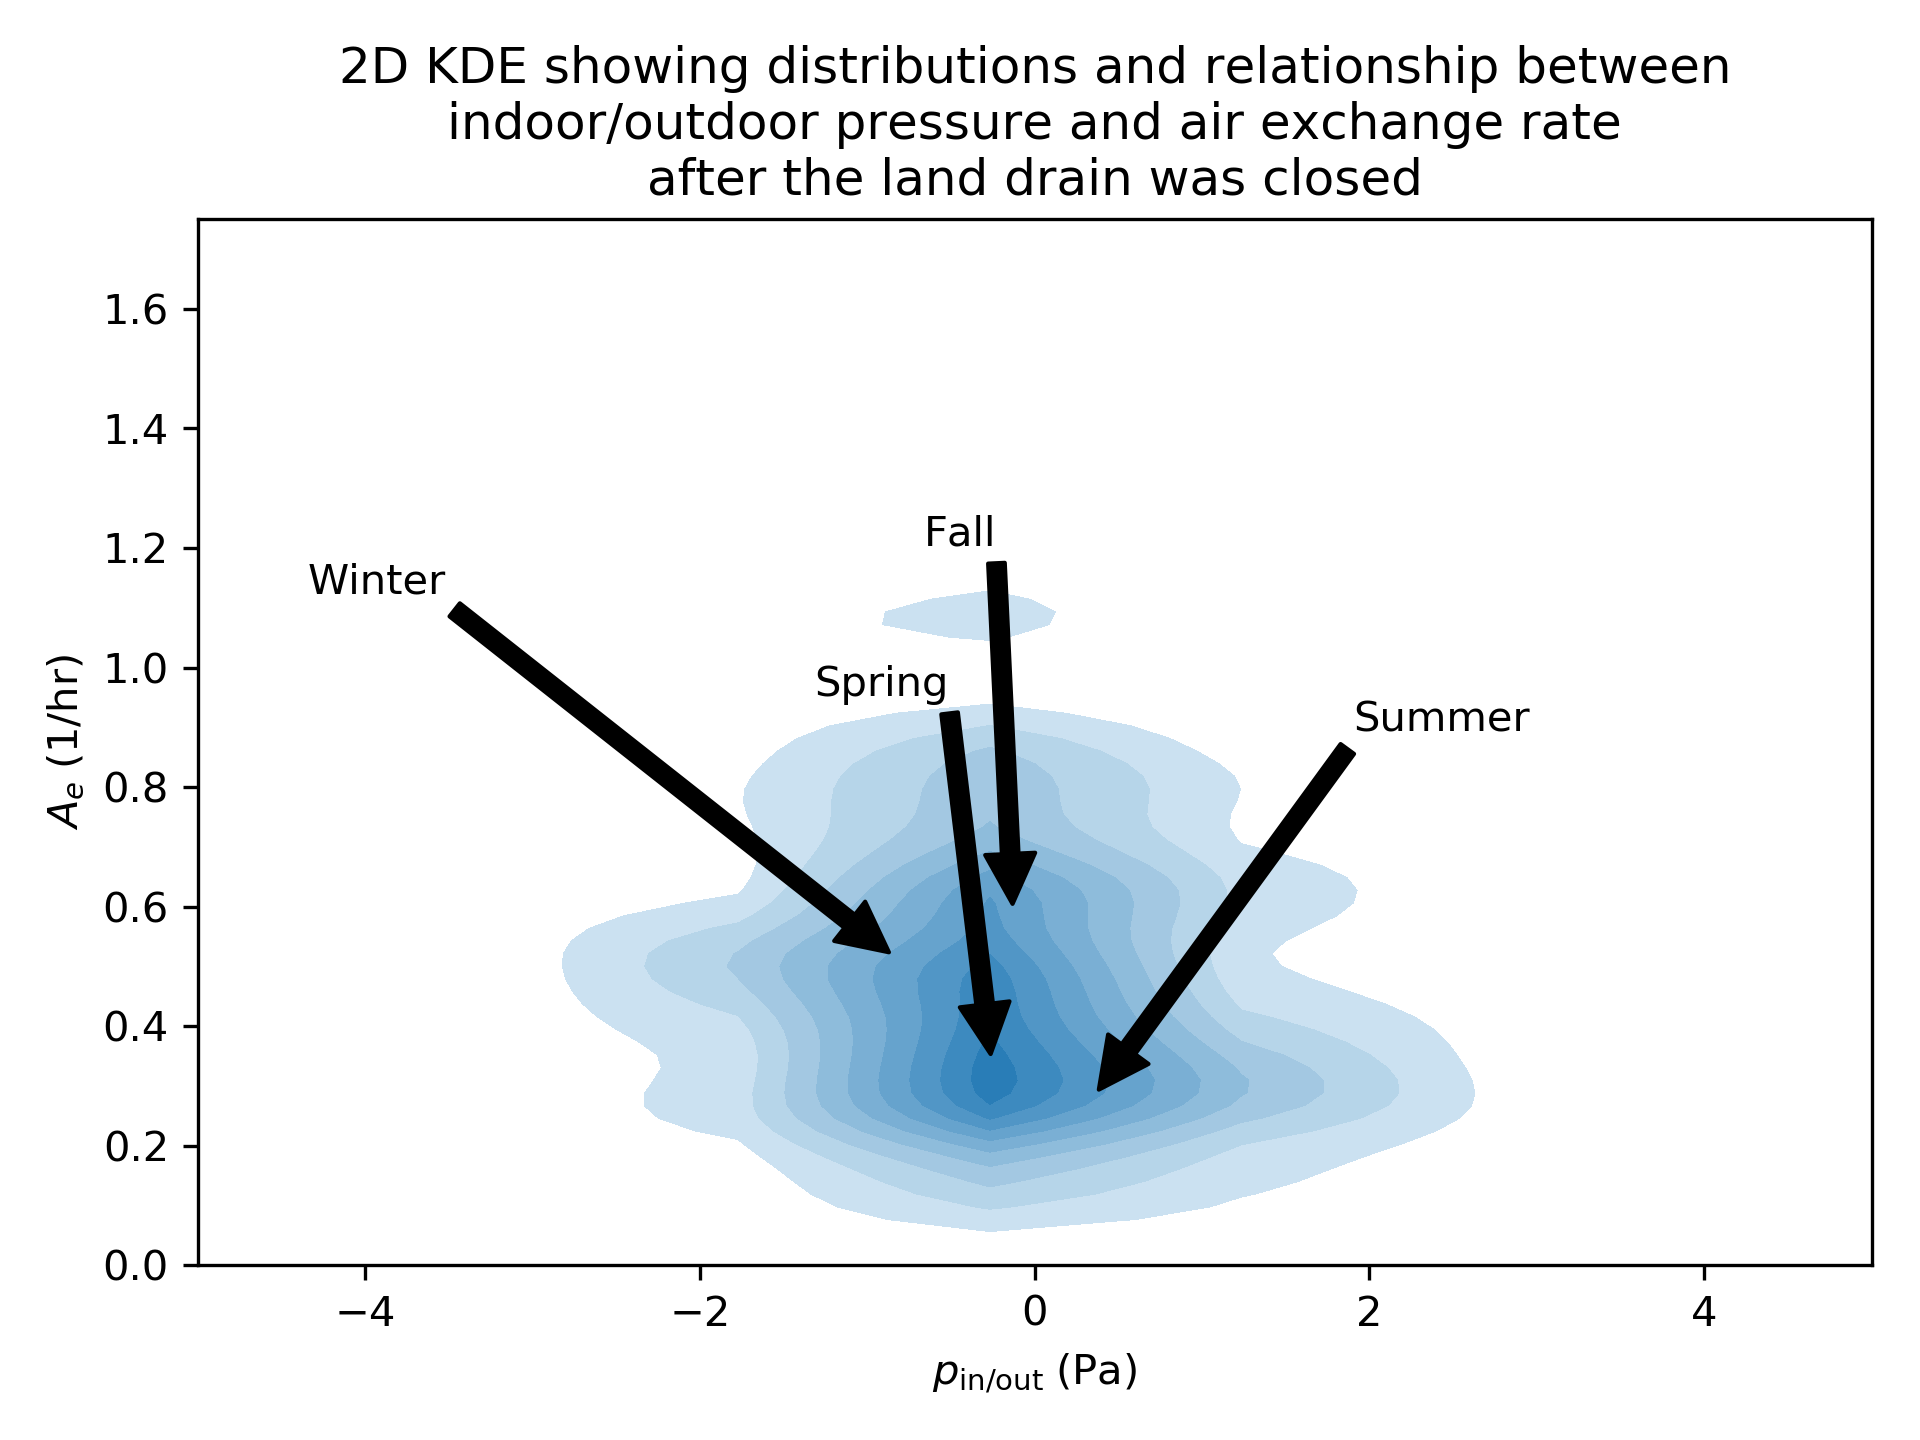
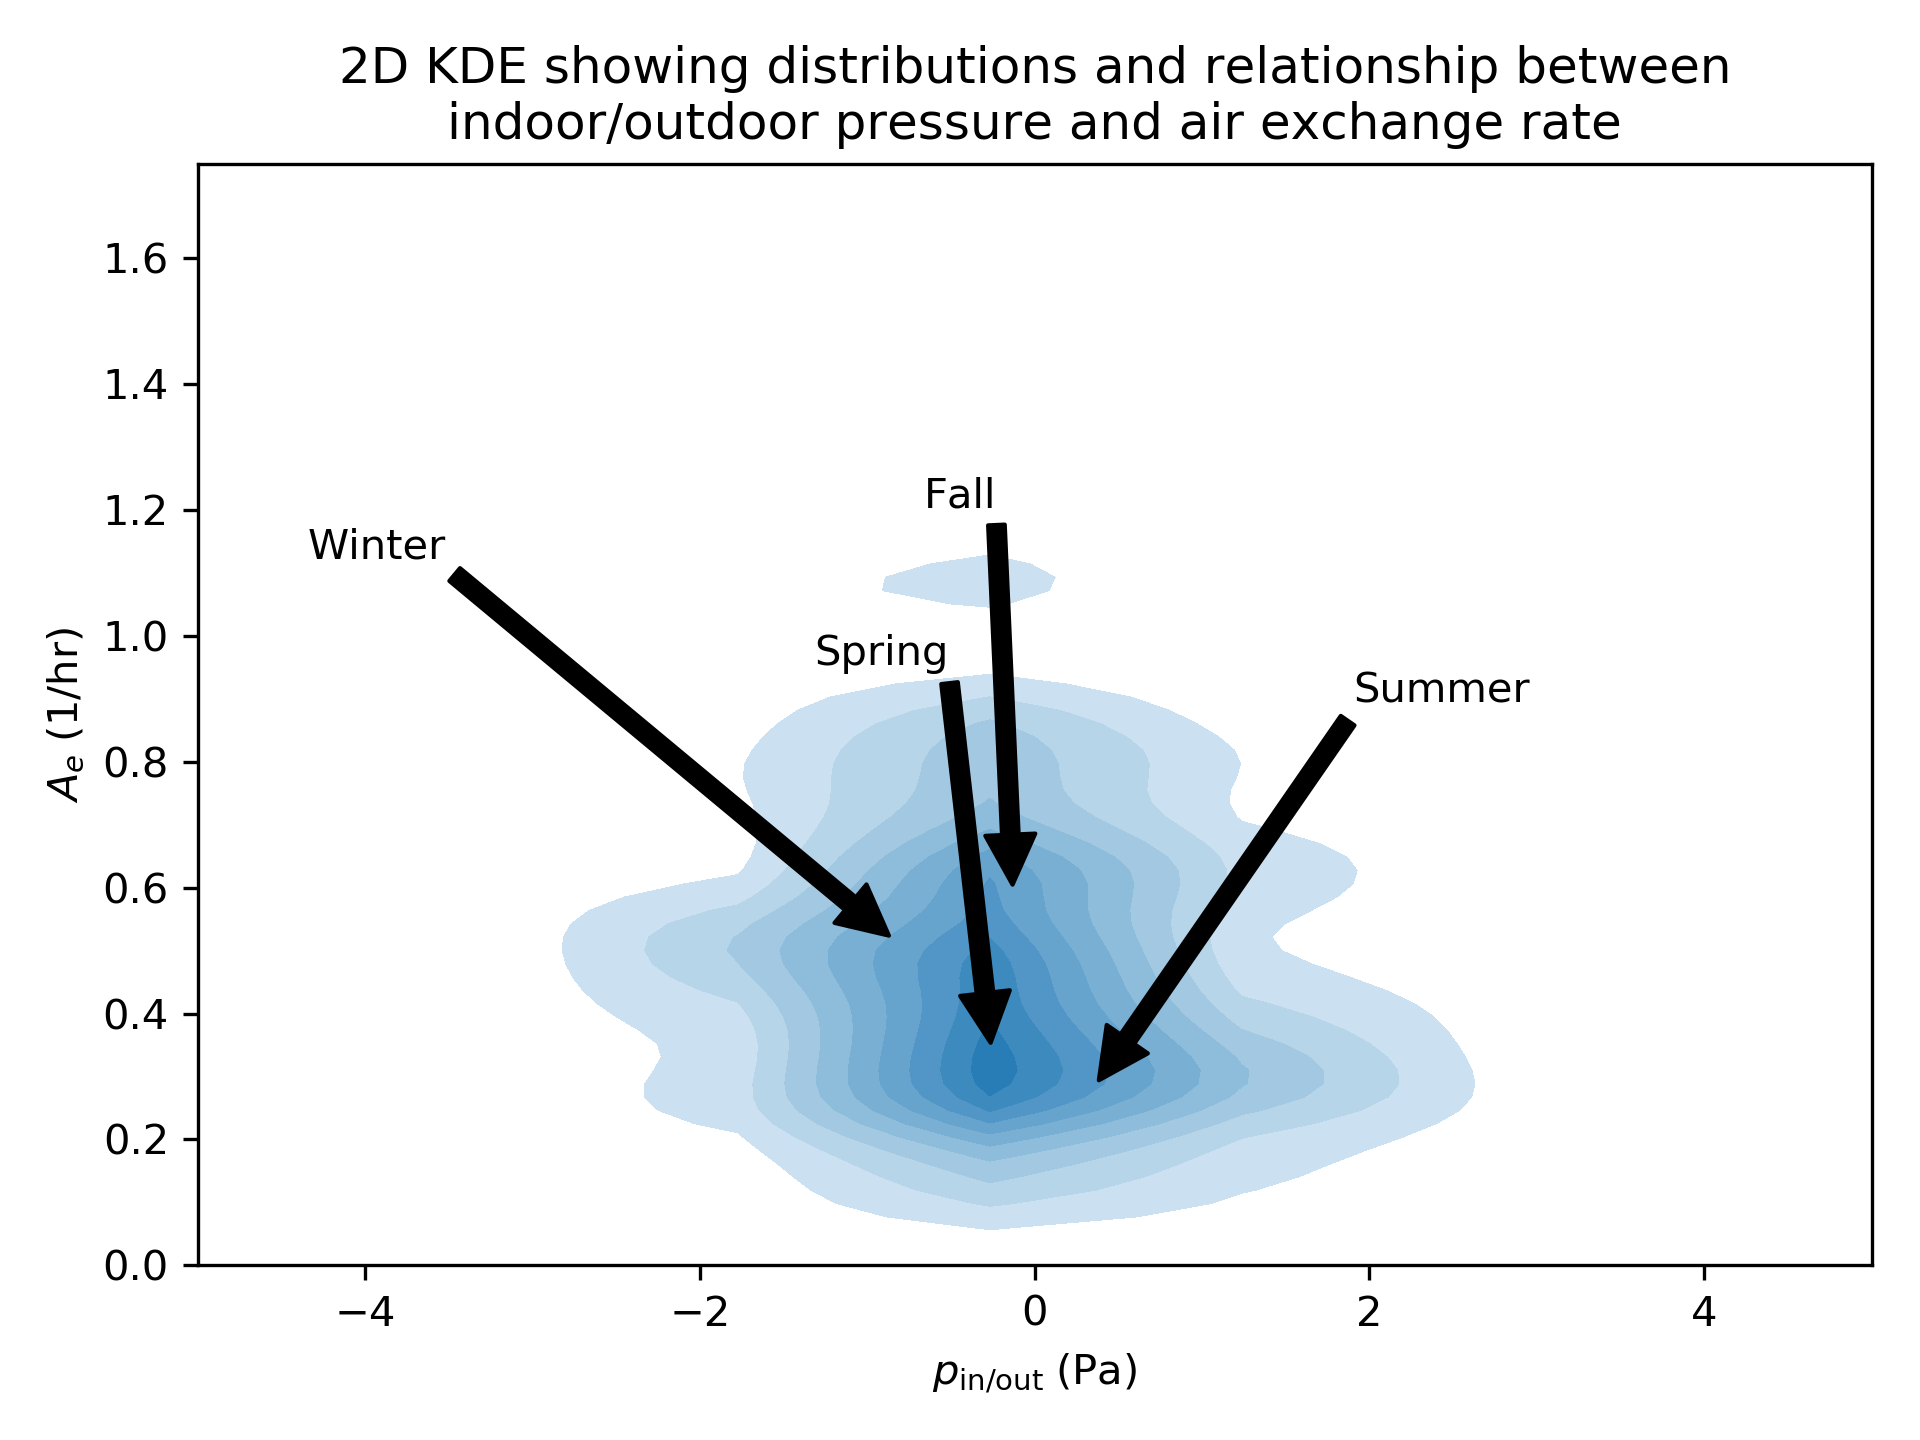
Changed title

diff --git a/code/figures.py b/code/figures.py
@@ -342,7 +342,7 @@ class AirExchangeRateKDE:
             )
 
         ax.set(
-            title='2D KDE showing distributions and relationship between\nindoor/outdoor pressure and air exchange rate\nafter the land drain was closed',
+            title='2D KDE showing distributions and relationship between\nindoor/outdoor pressure and air exchange rate',
             ylabel='$A_e \; \\mathrm{(1/hr)}$',
             xlabel='$p_\\mathrm{in/out} \; \\mathrm{(Pa)}$',
             ylim=[0,1.75],
@@ -378,7 +378,7 @@ class Diurnal:
             maxmin(pp_open),
         )
         fig, ((ax1, ax2),(ax3,ax4)) = plt.subplots(2,2, dpi=150)
-        
+
         x_smooth = np.linspace(0,23,100)
         y_smooth = CubicSpline(p_diurnal['Time'], p_diurnal['IndoorOutdoorPressure'])(x_smooth)
         ax1.plot(x_smooth, y_smooth)
@@ -455,9 +455,9 @@ class Diurnal:
 #Diurnal()
 #PressureKDE(y_data_log=True,norm_conc=True)
 #AttenuationSubslab()
-Modeling()
+#Modeling()
 #IndianapolisTime()
-#AirExchangeRateKDE()
+AirExchangeRateKDE()
 
 """
 df = pd.DataFrame({'x': [0,2], 'y': [1,4]})
